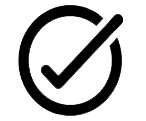
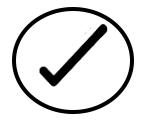
ww

Changed region(s): [[0.0822, 0.0248, 0.9315, 0.9669]]

diff --git a/index.html b/index.html
@@ -102,9 +102,9 @@
  <!-- text-seo -->
 <section class="text-seo">
   <div class="container">
-    <div class="col-md-12 p-3 fs-5 text-center">
-      <h1 class=" pt-3">RENTAL MOBIL DI LABUAN BAJO</h1>
-      <P class="fs-3 pb-4">Komodo Imthes Rent Car adalah Perusahaan yang bergerak dibidang sewa Mobil baik 
+    <div class="col-md-12 p-3 text-center">
+      <h1 class=" text-dark pt-3 pb-3">RENTAL MOBIL DI LABUAN BAJO</h1>
+      <P class="fs-4 pb-4">Komodo Imthes Rent Car adalah Perusahaan yang bergerak dibidang sewa Mobil baik 
         lepas kunci maupun menyediakan driver bagi anda yang ingin
         menjelajahi keindahan Labuan Bajo dan pulau Flores. Perusahaan kami memiliki bnyak armada
         yang senantiasa melayani kebutuhan anda </P>
@@ -265,7 +265,7 @@
       </div>
 
       <div class=" box-why col-lg-2 col-md-3 m-2 text-center bg-light rounded-2">
-        <img src="img/ikon 1.png" class="pt-4 pb-1"  alt="icon tanda centang">
+        <img src="img/legal.png" class="pt-4 pb-1"  alt="icon tanda centang">
         <h5>LEGALITAS RESMI</h5>
         <p>Kami memiliki  Perusahaan dengan Legalitas Resmi untuk ketengan pelanggan kami</p>
       </div>
@@ -305,32 +305,33 @@
    
     <div class="row d-flex justify-content-center pb-5">
         <div class="col-md-4 border-dark text-center">
-            <img src="img/w-1.jpg" class="w-100" alt="">
+            <img src="img/w-1n.jpg" class="w-100" alt="">
             <h6>PULAU PADAR</h6>
+            <p>private</p>
             <a href="#">Explore</a>
         </div>
         <div class="col-md-4 border-dark text-center">
-          <img src="img/w-2.jpg" class="w-100" alt="">
+          <img src="img/w-2n.jpg" class="w-100" alt="">
           <h6>Wae Rebo</h6>
           <a href="#">Explore</a>
       </div>
       <div class="col-md-4 border-dark text-center">
-        <img src="img/w-3.jpg" class="w-100" alt="">
+        <img src="img/w-3n.jpg" class="w-100" alt="">
         <h6>Pink Beach</h6>
         <a href="#">Explore</a>
     </div>
     <div class="col-md-4 border-dark text-center">
-      <img src="img/W-4.jpg" class="w-100" alt="">
+      <img src="img/W-4n.jpg" class="w-100" alt="">
       <h6>Danau Kelimutu</h6>
       <a href="#">Explore</a>
   </div>
   <div class="col-md-4 border-dark text-center">
-    <img src="img/w-5.jpg" class="w-100" alt="">
+    <img src="img/w-5n.jpg" class="w-100" alt="">
     <h6>Pulau Padar</h6>
     <a href="#">Explore</a>
 </div>
 <div class="col-md-4 border-dark text-center">
-  <img src="img/W-6.jpg" class="w-100" alt="">
+  <img src="img/W-6n.jpg" class="w-100" alt="">
   <h6>Gili Lawa</h6>
   <a href="#">Explore</a>
 </div>

diff --git a/css/style.css b/css/style.css
@@ -7,7 +7,9 @@
 
 body {
   overflow-x: hidden;
-  background-image: url(../img/bg-testimoni.jpg);
+  background-image: url(../img/kertas.jpg);
+ 
+  
 }
 /* header */
 .header {
@@ -57,6 +59,8 @@ strong {
   text-decoration: none;
   position: fixed;
   bottom: 0;
+  padding left:0;
+  mar
 }
 
 .wa-logo img {
@@ -98,7 +102,6 @@ main img {
 }
 .text-seo h1 {
   color: rgb(73, 74, 75);
-  font-size: 2.4rem;
 }
 /* unit Mobil */
 .unit {
@@ -195,10 +198,10 @@ main img {
 }
 
 .paket-wisata h6 {
-  background-color: rgb(236, 232, 0);
+  background-color: rgb(46, 46, 45);
   font-size: 2rem;
   padding: 15px;
-  color: rgb(78, 78, 78);
+  color: rgb(241, 237, 237);
   font-weight: 600;
 }
 
